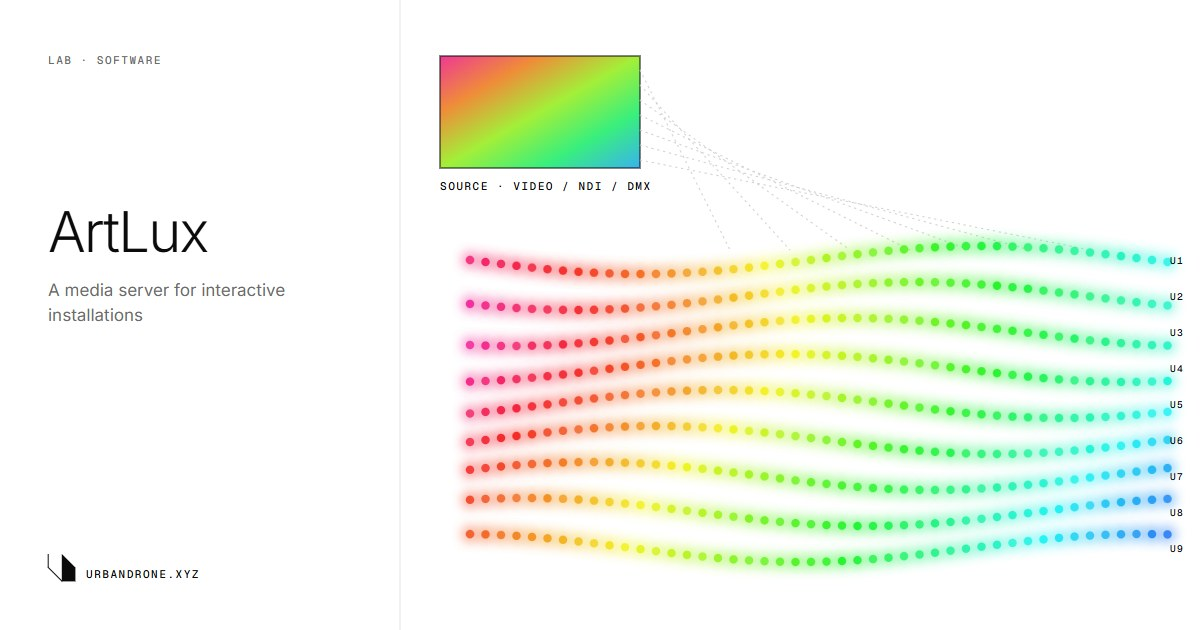
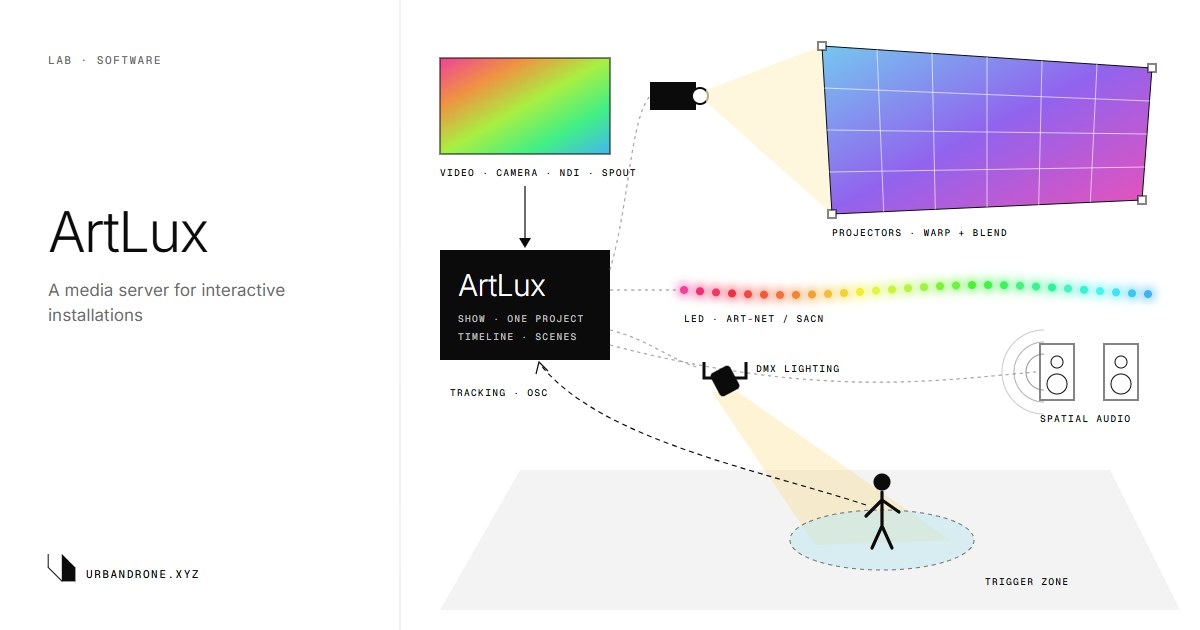
Content: ArtLux illustration as a media server, licence in the credits
The ArtLux card and cover now show one show driving projectors, LEDs,
DMX light and speakers from a tracked person in a trigger zone, not
only an LED rig. Credits for ArtLux and its Launcher follow the
README: free for education and non-commercial use, not MIT.

diff --git a/design-system/share-cards/art.js b/design-system/share-cards/art.js
@@ -7,31 +7,57 @@ function rng(seed) {
 }
 const f = (n) => n.toFixed(1);
 
-// ---------- ArtLux: video frame sampled onto LED strips ----------
+// ---------- ArtLux: one show driving projectors, LEDs, lights and sound ----------
 function artlux() {
   const R = rng(3);
-  const hue = (x, y) => 330 + (x - AX) / 800 * 230 + Math.sin(y / 70) * 25; // magenta→orange→cyan sweep
-  let s = '';
-  // source frame (small, top-left of panel)
-  s += `<defs><linearGradient id="src" x1="0" x2="1" y1="0" y2="1">${[0, .25, .5, .75, 1].map((o) => `<stop offset="${o}" stop-color="hsl(${330 + o * 230},85%,58%)"/>`).join('')}</linearGradient>
-  <filter id="glow" x="-50%" y="-50%" width="200%" height="200%"><feGaussianBlur stdDeviation="5"/></filter></defs>`;
-  s += `<rect x="${AX + 40}" y="56" width="200" height="112" fill="url(#src)"/>`;
-  s += `<rect x="${AX + 40}" y="56" width="200" height="112" fill="none" stroke="#0b0b0b" stroke-width="1"/>`;
-  s += `<text x="${AX + 40}" y="190" class="mono">SOURCE · VIDEO / NDI / DMX</text>`;
-  // sampling rays from the frame to the rig
-  for (let i = 0; i < 7; i++) s += `<line x1="${AX + 240}" y1="${70 + i * 15}" x2="${AX + 330 + i * 60}" y2="${250}" stroke="#d0d0d0" stroke-width="1" stroke-dasharray="2 4"/>`;
-  // LED rig: curved strips
-  for (let k = 0; k < 9; k++) {
-    const y0 = 260 + k * 36;
-    for (let i = 0; i < 46; i++) {
-      const x = AX + 70 + i * 15.5;
-      const y = y0 + Math.sin(i / 7 + k * 0.6) * 14;
-      const hsl = `hsl(${hue(x, y) % 360},90%,${55 + R() * 6}%)`;
-      s += `<circle cx="${f(x)}" cy="${f(y)}" r="9" fill="${hsl}" opacity=".45" filter="url(#glow)"/>`;
-      s += `<circle cx="${f(x)}" cy="${f(y)}" r="4.2" fill="${hsl}"/>`;
-    }
-    s += `<text x="${AX + 770}" y="${y0 + 4}" class="mono small">U${k + 1}</text>`;
+  const lerp = (a, b, t) => [a[0] + (b[0] - a[0]) * t, a[1] + (b[1] - a[1]) * t];
+  let s = `<defs><linearGradient id="src" x1="0" x2="1" y1="0" y2="1">${[0, .25, .5, .75, 1].map((o) => `<stop offset="${o}" stop-color="hsl(${330 + o * 230},85%,60%)"/>`).join('')}</linearGradient>
+  <linearGradient id="wall" x1="0" x2="1" y1="0" y2="1">${[0, .5, 1].map((o) => `<stop offset="${o}" stop-color="hsl(${200 + o * 120},80%,${70 - o * 8}%)"/>`).join('')}</linearGradient>
+  <filter id="glow" x="-50%" y="-50%" width="200%" height="200%"><feGaussianBlur stdDeviation="4"/></filter></defs>`;
+  // floor + trigger zone
+  s += `<path d="M440,610L1180,610L1110,470L520,470Z" fill="#f3f3f3"/>`;
+  // DMX beam onto the zone
+  s += `<path d="M712,392L738,392L950,540L815,545Z" fill="#ffd36b" opacity=".28"/>`;
+  s += `<ellipse cx="882" cy="540" rx="92" ry="30" fill="#bfe8f0" opacity=".55" stroke="#0b0b0b" stroke-dasharray="4 4"/>`;
+  s += `<text x="985" y="585" class="mono small">TRIGGER ZONE</text>`;
+  // person
+  s += `<g stroke="#0b0b0b" stroke-width="3.2" stroke-linecap="round" fill="none"><path d="M882,492V526M882,500L866,516M882,500L899,512M882,526L872,548M882,526L892,548"/></g><circle cx="882" cy="482" r="8.5" fill="#0b0b0b"/>`;
+  // source
+  s += `<rect x="440" y="58" width="170" height="96" fill="url(#src)" stroke="#0b0b0b"/>`;
+  s += `<text x="440" y="176" class="mono small">VIDEO · CAMERA · NDI · SPOUT</text>`;
+  s += `<path d="M525,186V244" stroke="#0b0b0b" stroke-width="1.2"/><path d="M519,238L525,248L531,238" fill="#0b0b0b"/>`;
+  // hub
+  s += `<rect x="440" y="250" width="170" height="110" fill="#0b0b0b"/>`;
+  s += `<text x="458" y="296" style="font:300 30px Inter;fill:#fff;letter-spacing:-0.02em">ArtLux</text><text x="458" y="322" class="mono small" style="fill:#bdbdbd">SHOW · ONE PROJECT</text><text x="458" y="340" class="mono small" style="fill:#bdbdbd">TIMELINE · SCENES</text>`;
+  // links from the hub
+  const link = (d) => s += `<path d="${d}" fill="none" stroke="#9a9a9a" stroke-width="1" stroke-dasharray="3 4"/>`;
+  link('M610,270C630,200 630,120 650,96'); link('M610,290C640,290 650,290 676,290'); link('M610,330C650,340 670,360 700,368'); link('M610,345C820,400 940,380 1036,372');
+  // tracking back into the hub
+  s += `<path d="M866,505C760,470 600,440 540,364" fill="none" stroke="#0b0b0b" stroke-width="1.2" stroke-dasharray="5 4"/><path d="M536,374L539,362L548,371" fill="none" stroke="#0b0b0b" stroke-width="1.2"/>`;
+  s += `<text x="450" y="396" class="mono small">TRACKING · OSC</text>`;
+  // projector → warped surface with mesh
+  s += `<rect x="650" y="82" width="46" height="28" fill="#0b0b0b"/><circle cx="700" cy="96" r="8" fill="#fff" stroke="#0b0b0b" stroke-width="2"/>`;
+  const q = [[822, 46], [1152, 68], [1142, 200], [832, 214]];
+  s += `<path d="M706,90L${q[0]}L${q[3]}L706,102Z" fill="#fff4cf" opacity=".7"/>`;
+  s += `<path d="M${q.join('L')}Z" fill="url(#wall)" stroke="#0b0b0b"/>`;
+  const P = (u, v) => lerp(lerp(q[0], q[1], u), lerp(q[3], q[2], u), v);
+  for (let i = 1; i < 6; i++) { const a = P(i / 6, 0), b = P(i / 6, 1); s += `<line x1="${f(a[0])}" y1="${f(a[1])}" x2="${f(b[0])}" y2="${f(b[1])}" stroke="#fff" stroke-width=".8" opacity=".8"/>`; }
+  for (let i = 1; i < 4; i++) { const a = P(0, i / 4), b = P(1, i / 4); s += `<line x1="${f(a[0])}" y1="${f(a[1])}" x2="${f(b[0])}" y2="${f(b[1])}" stroke="#fff" stroke-width=".8" opacity=".8"/>`; }
+  q.forEach(([x, y]) => s += `<rect x="${x - 4}" y="${y - 4}" width="8" height="8" fill="#fff" stroke="#0b0b0b"/>`);
+  s += `<text x="832" y="236" class="mono small">PROJECTORS · WARP + BLEND</text>`;
+  // LED strip
+  for (let i = 0; i < 30; i++) {
+    const x = 684 + i * 16, y = 290 + Math.sin(i / 4) * 5, c = `hsl(${(330 + i * 8) % 360},90%,${56 + R() * 6}%)`;
+    s += `<circle cx="${f(x)}" cy="${f(y)}" r="8" fill="${c}" opacity=".45" filter="url(#glow)"/><circle cx="${f(x)}" cy="${f(y)}" r="4" fill="${c}"/>`;
   }
+  s += `<text x="684" y="322" class="mono small">LED · ART-NET / SACN</text>`;
+  // DMX moving head
+  s += `<path d="M704,362V378H746V362" fill="none" stroke="#0b0b0b" stroke-width="3"/><rect x="714" y="368" width="22" height="26" rx="4" fill="#0b0b0b" transform="rotate(-28 725 381)"/>`;
+  s += `<text x="756" y="372" class="mono small">DMX LIGHTING</text>`;
+  // speakers + sound
+  [1040, 1104].forEach((x) => { s += `<rect x="${x}" y="344" width="34" height="56" fill="#fff" stroke="#0b0b0b"/><circle cx="${x + 17}" cy="362" r="6" fill="none" stroke="#0b0b0b"/><circle cx="${x + 17}" cy="384" r="10" fill="none" stroke="#0b0b0b"/>`; });
+  [18, 30, 42].forEach((r, i) => s += `<path d="M${1074 + 15},${372 - r} A${r} ${r} 0 0 1 ${1074 + 15},${372 + r}" fill="none" stroke="#7a7a7a" opacity="${0.8 - i * 0.2}" transform="translate(-15 0) rotate(180 1074 372)"/>`);
+  s += `<text x="1040" y="422" class="mono small">SPATIAL AUDIO</text>`;
   return { bg: '#ffffff', svg: s };
 }
 
